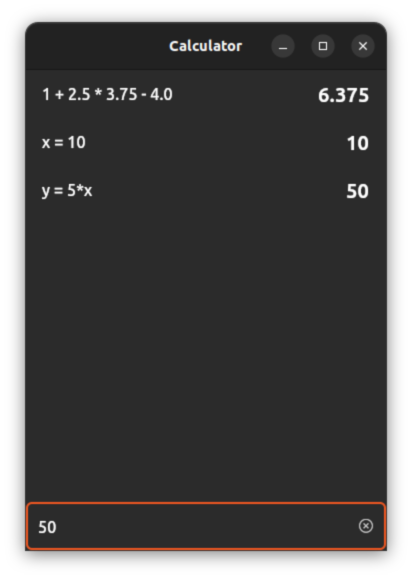
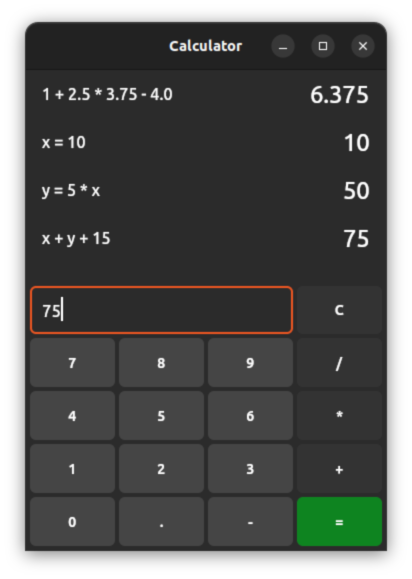
Add basic keypad

diff --git a/lib/calculator_keypad.dart b/lib/calculator_keypad.dart
@@ -1,0 +1,149 @@
+import 'package:flutter/material.dart';
+
+class CalculatorKeypad extends StatelessWidget {
+  const CalculatorKeypad({
+    super.key,
+    required this.onInput,
+    required this.onDone,
+  });
+
+  final ValueChanged<String> onInput;
+  final VoidCallback onDone;
+
+  @override
+  Widget build(BuildContext context) {
+    return TextFieldTapRegion(
+      child: Column(
+        children: [
+          Expanded(
+            child: Row(
+              crossAxisAlignment: CrossAxisAlignment.stretch,
+              children: [
+                for (final number in ['7', '8', '9'])
+                  CalculatorButton.number(
+                    onPressed: () => onInput(number),
+                    label: number,
+                  ),
+                CalculatorButton.operator(
+                  onPressed: () => onInput('/'),
+                  label: '/',
+                ),
+              ],
+            ),
+          ),
+          Expanded(
+            child: Row(
+              crossAxisAlignment: CrossAxisAlignment.stretch,
+              children: [
+                for (final number in ['4', '5', '6'])
+                  CalculatorButton.number(
+                    onPressed: () => onInput(number),
+                    label: number,
+                  ),
+                CalculatorButton.operator(
+                  onPressed: () => onInput('*'),
+                  label: '*',
+                ),
+              ],
+            ),
+          ),
+          Expanded(
+            child: Row(
+              crossAxisAlignment: CrossAxisAlignment.stretch,
+              children: [
+                for (final number in ['1', '2', '3'])
+                  CalculatorButton.number(
+                    onPressed: () => onInput(number),
+                    label: number,
+                  ),
+                CalculatorButton.operator(
+                  onPressed: () => onInput('+'),
+                  label: '+',
+                ),
+              ],
+            ),
+          ),
+          Expanded(
+            child: Row(
+              crossAxisAlignment: CrossAxisAlignment.stretch,
+              children: [
+                CalculatorButton.number(
+                  onPressed: () => onInput('0'),
+                  label: '0',
+                ),
+                CalculatorButton.number(
+                  onPressed: () => onInput('.'),
+                  label: '.',
+                ),
+                CalculatorButton.number(
+                  onPressed: () => onInput('-'),
+                  label: '-',
+                ),
+                CalculatorButton(
+                  onPressed: onDone,
+                  label: '=',
+                ),
+              ],
+            ),
+          ),
+        ],
+      ),
+    );
+  }
+}
+
+enum CalculatorButtonKind { number, operator }
+
+class CalculatorButton extends StatelessWidget {
+  const CalculatorButton({
+    super.key,
+    required this.onPressed,
+    required this.label,
+    this.kind,
+  });
+
+  const CalculatorButton.number({
+    super.key,
+    required this.onPressed,
+    required this.label,
+    this.kind = CalculatorButtonKind.number,
+  });
+
+  const CalculatorButton.operator({
+    super.key,
+    required this.onPressed,
+    required this.label,
+    this.kind = CalculatorButtonKind.operator,
+  });
+
+  final VoidCallback onPressed;
+  final String label;
+  final CalculatorButtonKind? kind;
+
+  Color? backgroundColor(BuildContext context) {
+    switch (kind) {
+      case CalculatorButtonKind.number:
+        return Theme.of(context).focusColor;
+      case CalculatorButtonKind.operator:
+        return Theme.of(context).hoverColor;
+      default:
+        return null;
+    }
+  }
+
+  @override
+  Widget build(BuildContext context) {
+    return Expanded(
+      child: Padding(
+        padding: const EdgeInsets.all(2),
+        child: ElevatedButton(
+          style: ElevatedButton.styleFrom(
+            backgroundColor: backgroundColor(context),
+          ),
+          onPressed: onPressed,
+          child: Text(label),
+        ),
+      ),
+    );
+  }
+}

diff --git a/lib/calculator_page.dart b/lib/calculator_page.dart
@@ -1,10 +1,9 @@
 import 'package:flutter/material.dart';
 import 'package:intl/intl.dart';
 import 'package:provider/provider.dart';
-import 'package:yaru_icons/yaru_icons.dart';
-import 'package:yaru_widgets/yaru_widgets.dart';
 
 import 'calculation.dart';
+import 'calculator_keypad.dart';
 import 'calculator_model.dart';
 
 class CalculatorPage extends StatefulWidget {
@@ -67,6 +66,26 @@ class _CalculatorPageState extends State<CalculatorPage> {
     return pattern.format(number);
   }
 
+  void insertText(String text) {
+    var content = _controller.text;
+    var selection = _controller.selection;
+
+    void insertAt(int start, String text) {
+      content = content.replaceRange(start, start, text);
+      selection = TextSelection.collapsed(offset: start + text.length);
+    }
+
+    void removeRange(int start, int end) {
+      content = content.replaceRange(start, end, '');
+      selection = TextSelection.collapsed(offset: start);
+    }
+
+    removeRange(selection.start, selection.end);
+    insertAt(selection.start, text);
+
+    _controller.value = TextEditingValue(text: content, selection: selection);
+  }
+
   void selectCalculation(Calculation calculation) {
     _controller.value = TextEditingValue(
       text: calculation.input,
@@ -97,25 +116,50 @@ class _CalculatorPageState extends State<CalculatorPage> {
                   title: Text(calculation.input),
                   trailing: Text(
                     formatResult(calculation.result),
-                    style: Theme.of(context).textTheme.headline6!,
+                    style: Theme.of(context).textTheme.headlineSmall,
                   ),
                   onTap: () => selectCalculation(calculation),
                 );
               },
             ),
           ),
-          TextField(
-            autofocus: true,
-            controller: _controller,
-            focusNode: _focusNode,
-            decoration: InputDecoration(
-              hintText: history.isEmpty ? 'x = 1 + 1' : null,
-              suffixIcon: YaruIconButton(
-                onPressed: resetCalculator,
-                icon: const Icon(YaruIcons.edit_clear),
+          IntrinsicHeight(
+            child: Padding(
+              padding: const EdgeInsets.only(left: 2, right: 2),
+              child: Row(
+                crossAxisAlignment: CrossAxisAlignment.stretch,
+                children: [
+                  Expanded(
+                    flex: 3,
+                    child: Padding(
+                      padding: const EdgeInsets.all(2),
+                      child: TextField(
+                        autofocus: true,
+                        controller: _controller,
+                        focusNode: _focusNode,
+                        decoration: InputDecoration(
+                          hintText: history.isEmpty ? 'x = 1 + 1' : null,
+                        ),
+                        onSubmitted: calculate,
+                      ),
+                    ),
+                  ),
+                  CalculatorButton.operator(
+                    onPressed: resetCalculator,
+                    label: 'C',
+                  ),
+                ],
               ),
             ),
-            onSubmitted: calculate,
+          ),
+          Expanded(
+            child: Padding(
+              padding: const EdgeInsets.only(left: 2, right: 2, bottom: 2),
+              child: CalculatorKeypad(
+                onInput: insertText,
+                onDone: () => calculate(_controller.text),
+              ),
+            ),
           ),
         ],
       ),
